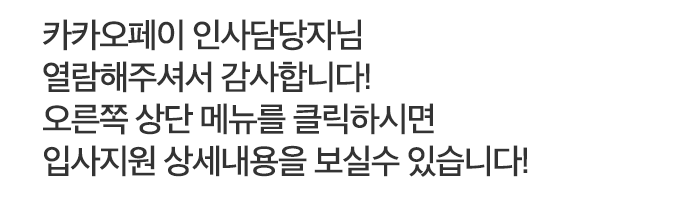
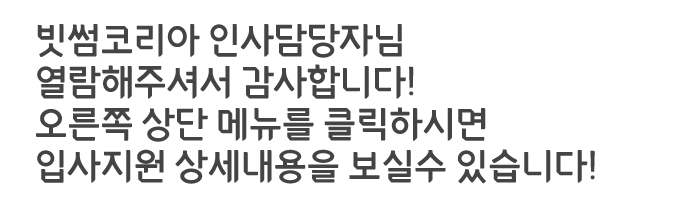
update

Changed region(s): [[0.0307, 0.0896, 0.8891, 0.9254]]

diff --git a/interview/job/css/common.css b/interview/job/css/common.css
@@ -27,7 +27,7 @@ a:hover, a:active, a:focus{text-decoration:underline; font-weight:bold;}
 #wrap{width:960px; margin:20px auto}
 header{margin:0 0 30px 0; *zoom:1; display:block;}
 header:after{content:""; clear:both; display:block;}
-header h1 a.kakakopay{width:430px; height:72px;background:url(../images/home/logo_kakaopay.png) no-repeat;text-indent:-9999px; display:block; float:left;}
+header h1 a.kakakopay{width:430px; height:72px;background:url(../images/home/bithumb_logo.png) no-repeat;text-indent:-9999px; display:block; float:left;}
 nav.gnb{width:280px; margin:25px 0 0 0; float:right; display:block;}
 nav.gnb ul li{float:left; margin:8px 0;}
 nav.gnb ul li a{display:block;}
@@ -38,7 +38,7 @@ nav.gnb ul li.portfolio a{width:124px; height:18px; background:url(../images/hom
 #container section.index{display:block; padding:100px 0;}
 #container section.index p{width:685px; height:201px; background:url(../images/home/maintext.png) no-repeat; text-indent:-9999px;}
 #container article h2{font-size:36px;margin:0 0 20px 0;color:#221f1f}
-footer{width:960px; height:22px; background:url(../images/home/footer.gif) no-repeat; text-indent:-9999px; display:block;}
+footer{width:960px; height:22px; background:url(../images/home/footer.png) no-repeat; text-indent:-9999px; display:block;}
 
 /* Table */
 table{width:100%; margin:20px 0 0 0; border-bottom:1px solid #dcdcdc; text-align:center; border-collapse:collapse; table-layout:fixed}

diff --git a/interview/job/sub1/sub1.html b/interview/job/sub1/sub1.html
@@ -32,7 +32,7 @@
 			<section>
 			<dl class="float_l">
 				<dt>지원부분 </dt>
-				<dd> : Front-end-development/웹 퍼블리셔</dd>
+				<dd> : 웹 퍼블리셔</dd>
 			</dl>
 			<dl class="float_r">
 				<dt>희망연봉 </dt>
@@ -61,7 +61,7 @@
 					<th scope="row">생년월일</th>
 					<td>1983년 03월 05일</td>
 					<th scope="row">연 령</th>
-					<td>만 37 세</td>
+					<td>만 38 세</td>
 					</tr>
 					<tr>
 					<th scope="row">주민등록번호</th>
